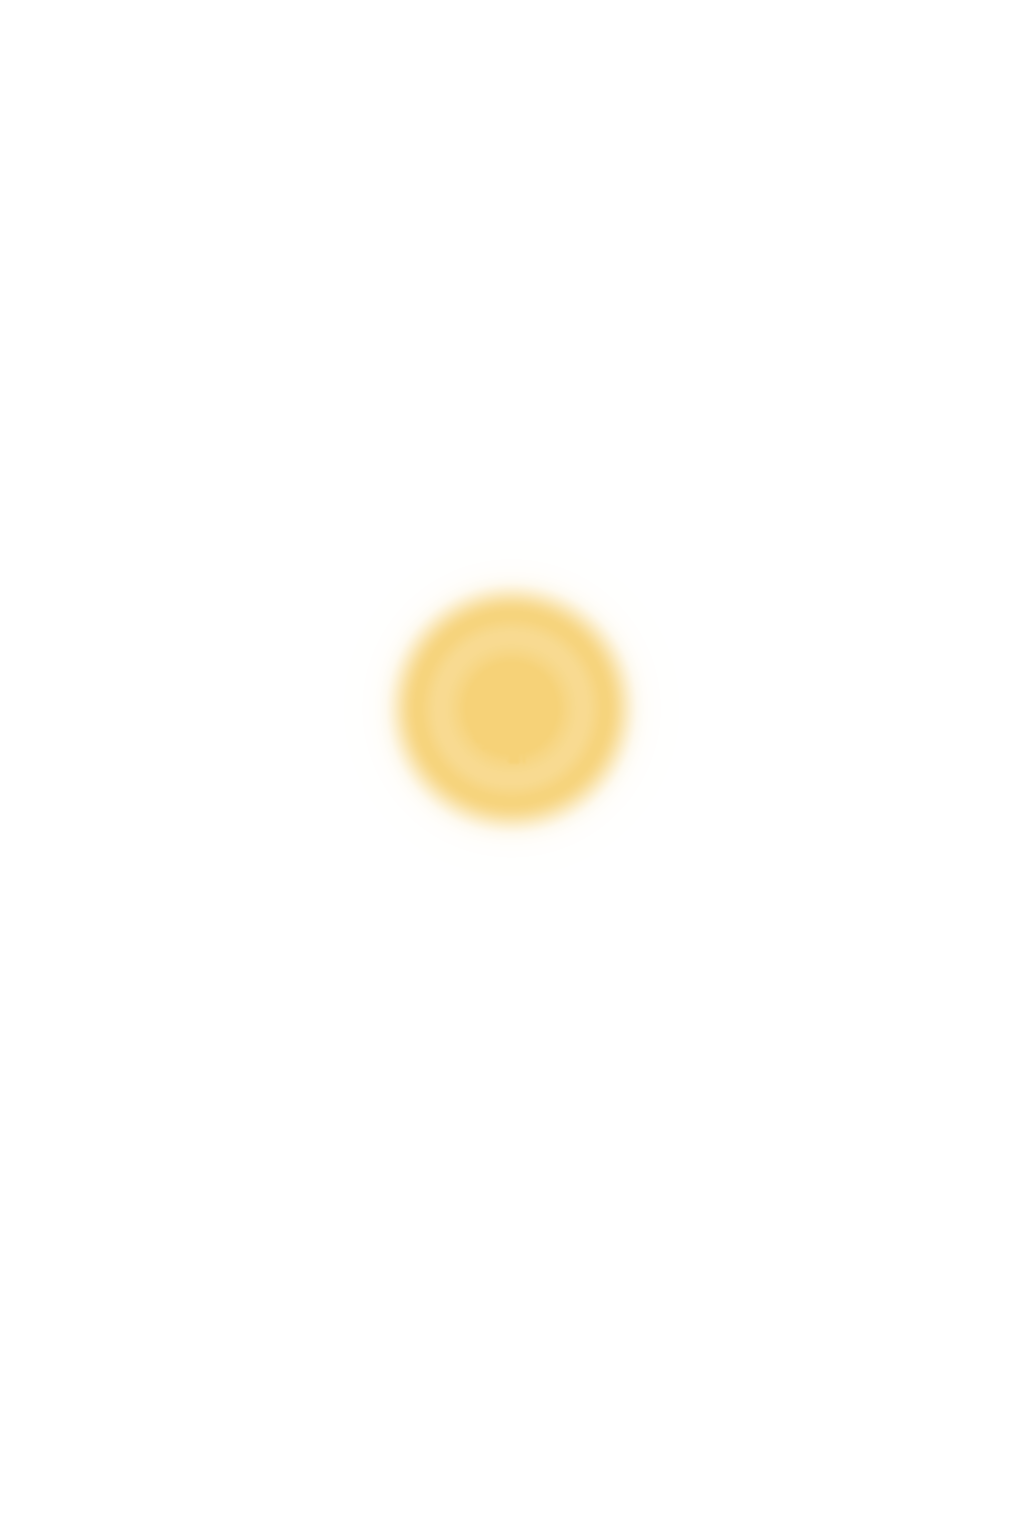
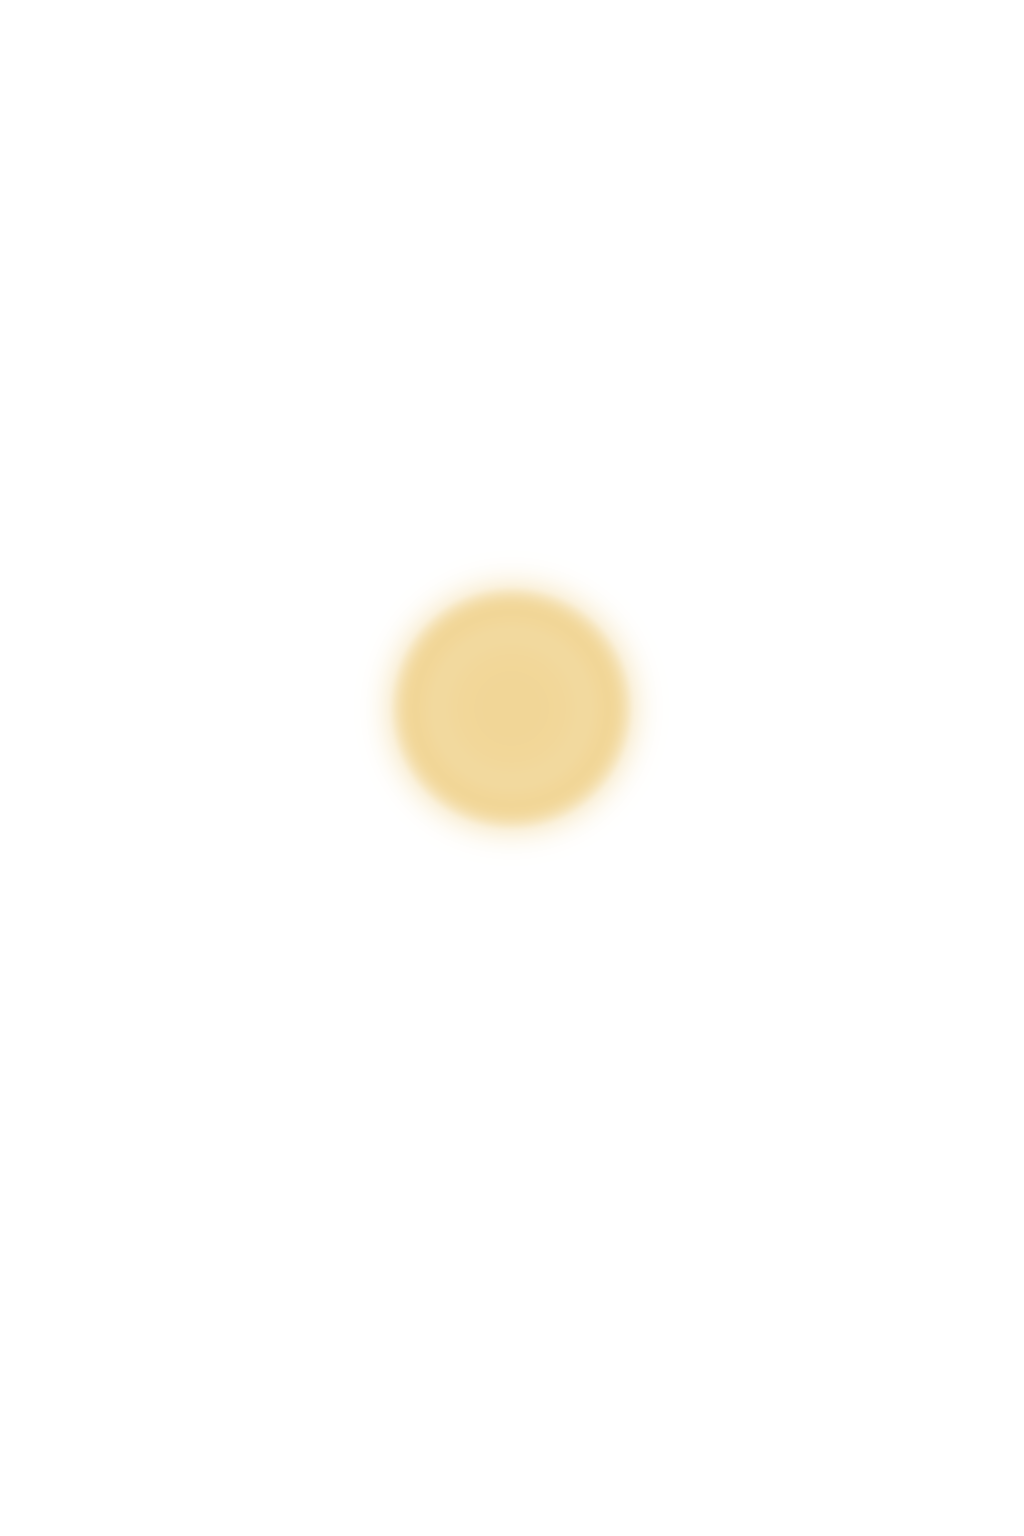
Refine crease fit, even seal glow, and softer open
Re-fit diagonal seams to measured crease valleys, light the top crest and a flatter full-seal disc, and ease the flap fold so the handoff to the homepage reads cleaner.

Changed region(s): [[0.4062, 0.375, 0.5938, 0.5312]]

diff --git a/components/entry/intro/Envelope.tsx b/components/entry/intro/Envelope.tsx
@@ -15,7 +15,7 @@ interface EnvelopeProps {
 
 /**
  * Closed master illustration with seal hotspot.
- * After glow, four flaps peel open with the seal, revealing the homepage beneath.
+ * After glow, the sealed envelope folds open gently onto the homepage.
  */
 export function Envelope({ phase, reduceMotion, onActivate }: EnvelopeProps) {
   const opening = isOpeningPhase(phase);
@@ -25,7 +25,8 @@ export function Envelope({ phase, reduceMotion, onActivate }: EnvelopeProps) {
   const sealVisible = isSealVisiblePhase(phase) || phase === "opening";
   const floralGlow =
     phase === "activating" || phase === "glowing" || phase === "opening";
-  const monogramLit = phase === "activating" || phase === "glowing";
+  const monogramLit =
+    phase === "activating" || phase === "glowing" || phase === "opening";
   const idleTwinkle = phase === "closed" && !reduceMotion;
 
   return (
@@ -53,18 +54,18 @@ export function Envelope({ phase, reduceMotion, onActivate }: EnvelopeProps) {
         style={
           reduceMotion
             ? undefined
-            : { perspective: 1400, transformStyle: "preserve-3d" }
+            : { perspective: 1200, transformStyle: "preserve-3d" }
         }
       >
         <div className="envelope-interior absolute inset-0" aria-hidden />
 
-        {/* Exact closed mockup — visible through glow, then yields to peeling flaps */}
+        {/* Exact closed mockup — stays through glow, then crossfades into peeling flaps */}
         <div
           className={cn(
             "envelope-closed-master absolute inset-0 z-[6]",
             closedVisual
               ? "opacity-100"
-              : "pointer-events-none opacity-0 duration-0",
+              : "pointer-events-none opacity-0 duration-200",
           )}
           aria-hidden
         >
@@ -81,7 +82,7 @@ export function Envelope({ phase, reduceMotion, onActivate }: EnvelopeProps) {
             alt=""
             className={cn(
               "envelope-floral-glow absolute inset-0 h-full w-full object-fill",
-              floralGlow && closedVisual && "is-lit",
+              floralGlow && "is-lit",
             )}
             draggable={false}
           />
@@ -98,10 +99,10 @@ export function Envelope({ phase, reduceMotion, onActivate }: EnvelopeProps) {
           />
         </div>
 
-        {/* Peeling flaps — under closed image until open begins */}
+        {/* Peeling flaps — matched closed art, under sealed layer until open */}
         <div
           className={cn(
-            "absolute inset-0",
+            "absolute inset-0 z-[5]",
             closedVisual && "opacity-0",
             opening && "opacity-100",
           )}

diff --git a/app/globals.css b/app/globals.css
@@ -643,11 +643,11 @@
   }
 
   .intro-monogram-glow.is-lit {
-    opacity: 1;
-    filter: brightness(1.15);
+    opacity: 0.92;
+    filter: brightness(1.05) saturate(1.05);
     /* Wide enough to cover the full wax disc in the master art */
-    -webkit-mask-size: 34% 24%;
-    mask-size: 34% 24%;
+    -webkit-mask-size: 36% 26%;
+    mask-size: 36% 26%;
   }
 
   /* Idle twinkle on the full seal before the first tap */
